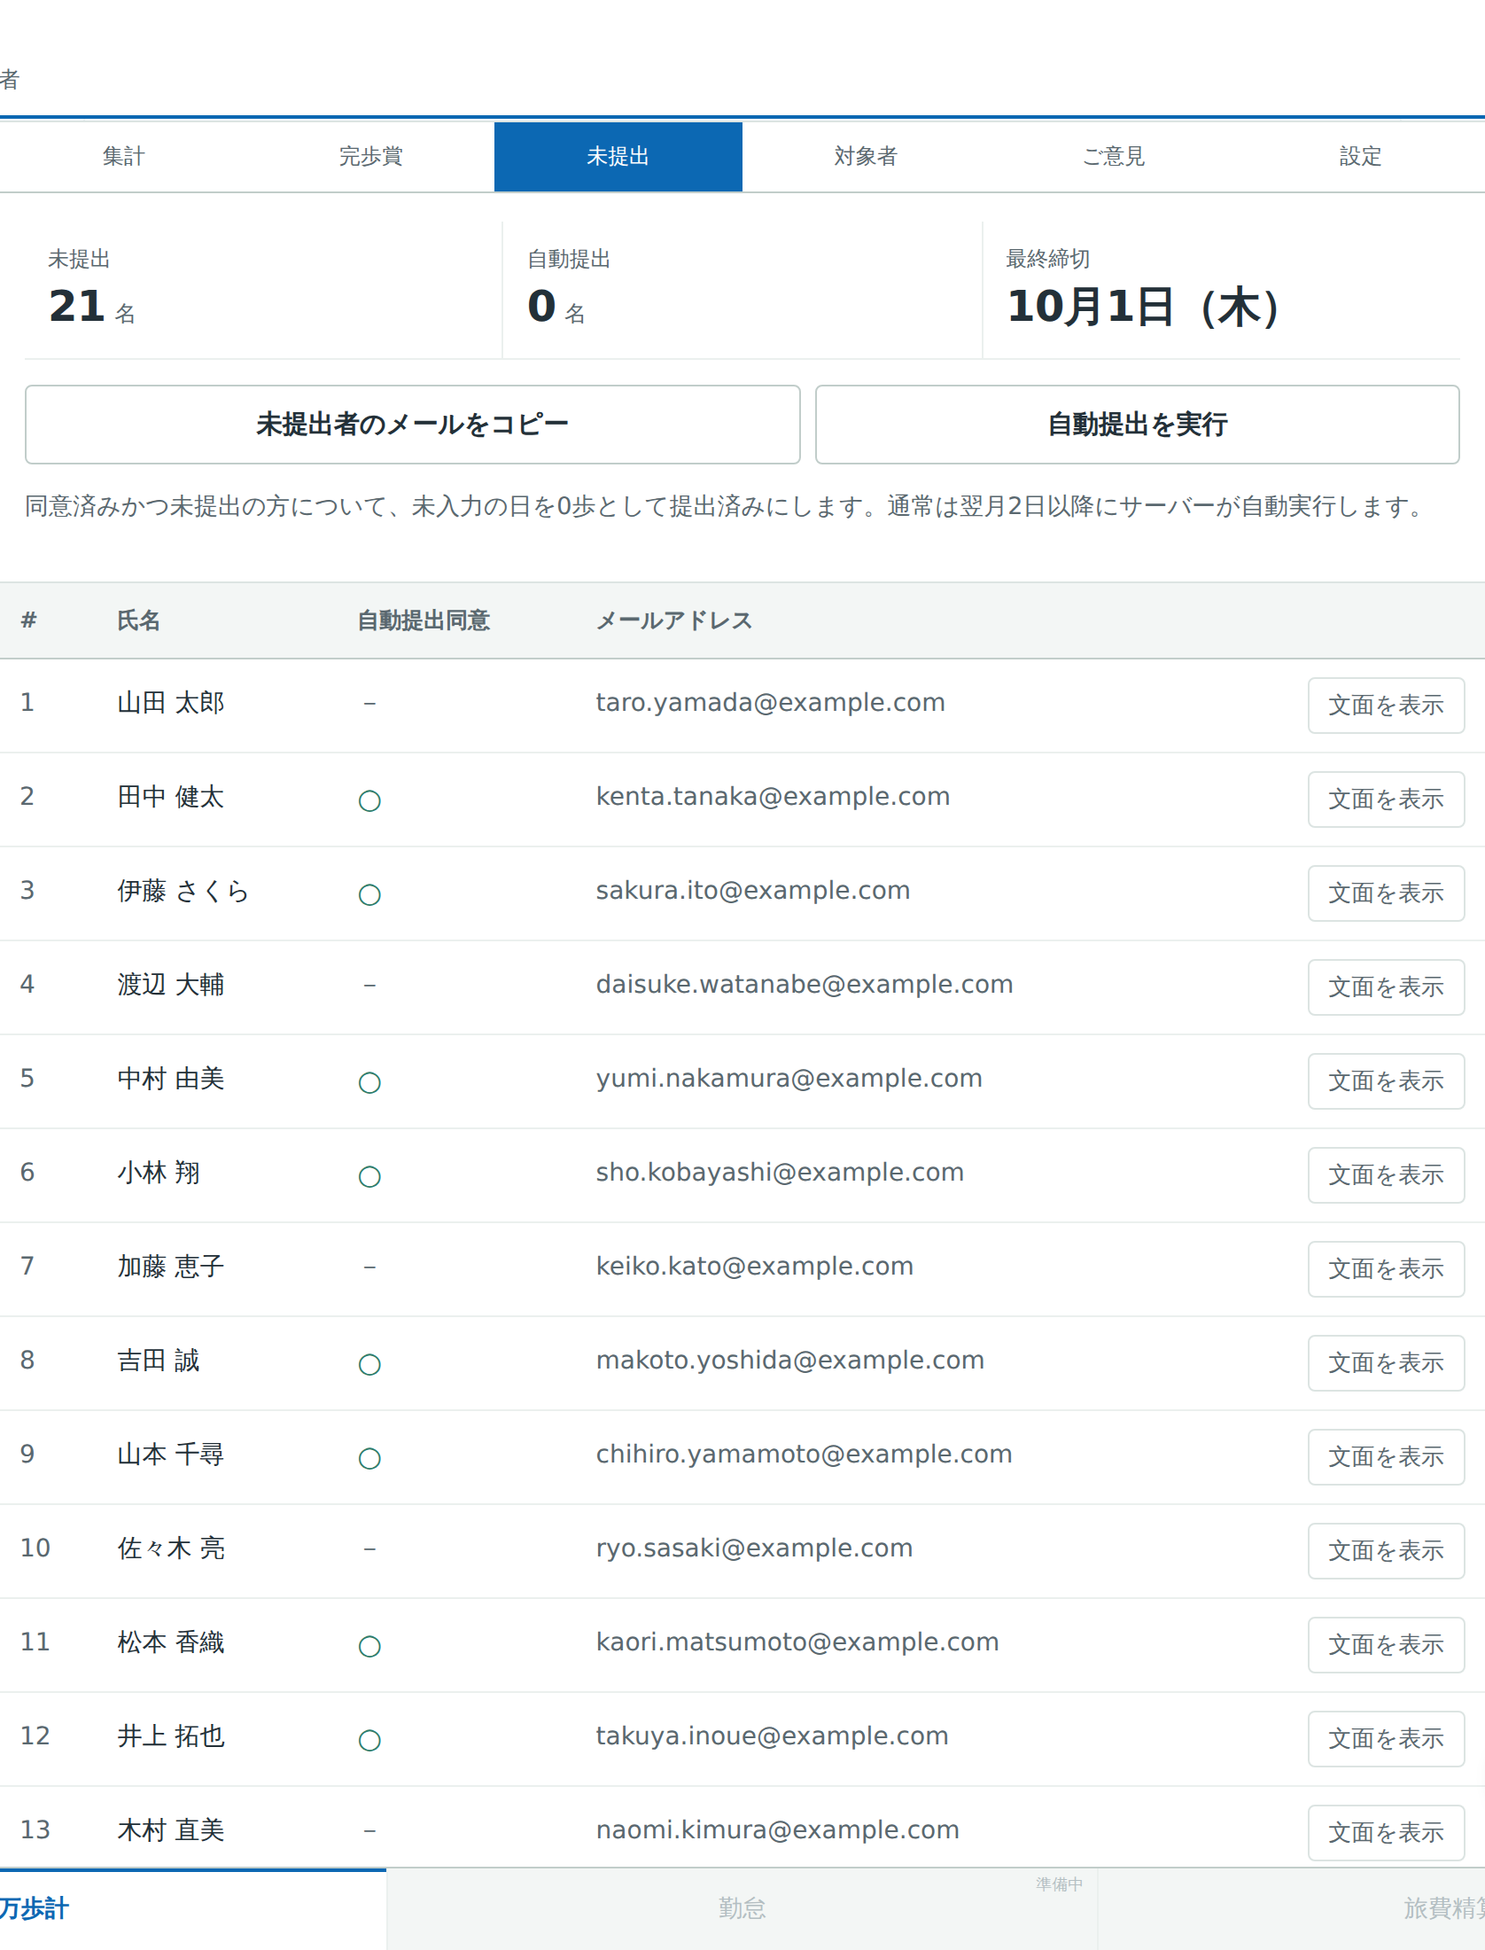
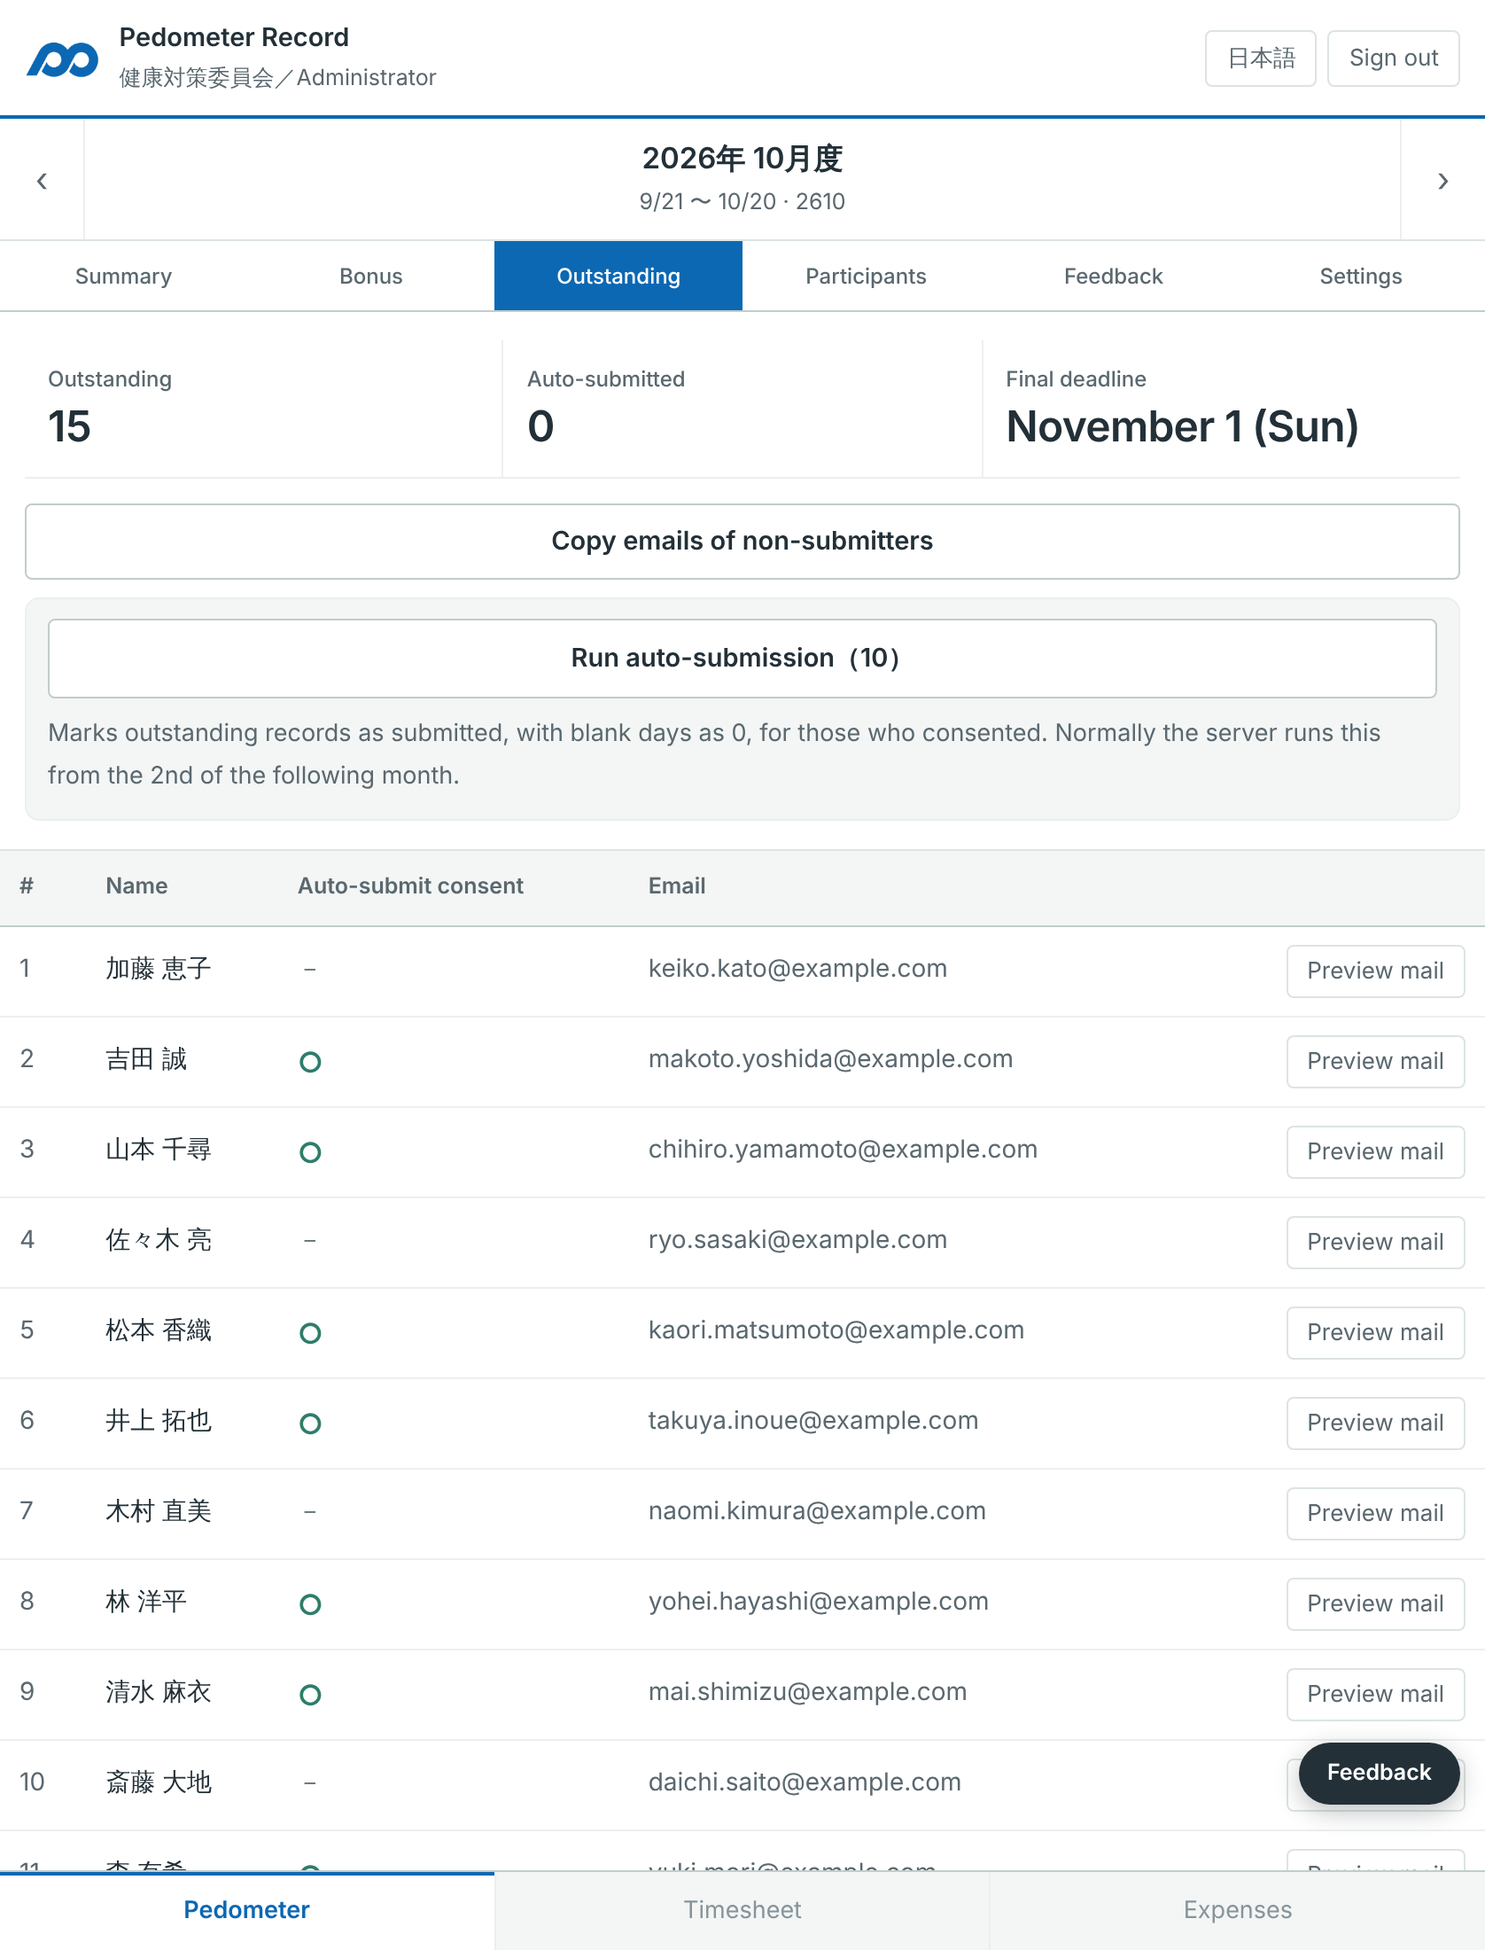
管理者用マニュアル: 佐野's remaining marks, and a bug one of them found
- p9「ここから下を次のページへ記載できないでしょうか。」 the リマインドメール
    heading was stranded under the figure at the foot of the page. A .pb class
    now starts it on a fresh page; the edition is still 19 pages.

  - p9「ここに記載があっても、どのボタンの内容かわかりません。」 — chasing this
    one turned up a real fault. The count beside 自動提出を実行, and whether the
    button is live at all, were both read off the people already auto-submitted
    rather than the people the press would affect. Those are opposite sets: once
    the job has run the first is full and the second empty, so the button was
    dead exactly when there was work and live when there was none. It now uses
    the same filter runAutoSubmit does, and the 自動提出 tile is relabelled
    自動提出済 so the two numbers cannot be read as the same thing.

    This also answers her 「おすと全員が自動提出になるのでしょうか？」 — no. With
    15 outstanding the button reads （10名）, because five never consented.

  - admin_summary.png and admin_outstanding.png retaken against demo-roster.json.
    The first still showed 万歩計集計表をダウンロード, renamed some time ago, and
    carried a 完歩賞 count larger than 提出済.

  - README page counts were three editions out of date.

Full suite green: template, kintai-september, kintai, todoke, koutsuuhi, fare,
fare-table.

Claude-Session: https://claude.ai/code/session_01XMP6QTktT2ZH2brYbujzUP

diff --git a/src/App.jsx b/src/App.jsx
@@ -124,12 +124,15 @@ const STR = {
   reminders: ['未提出・リマインド', 'Reminders'],
   finalDeadline: ['最終締切', 'Final deadline'],
   consent: ['自動提出同意', 'Auto-submit consent'],
-  autoTag: ['自動提出', 'Auto'],
+  autoTag: ['自動提出済', 'Auto-submitted'],   // the count already submitted by the job, not the count pending
   showMail: ['文面を表示', 'Preview mail'],
   copyBody: ['本文をコピー', 'Copy body'],
   openMail: ['メールを開く', 'Open in mail'],
   runAuto: ['自動提出を実行', 'Run auto-submission'],
-  runAutoNote: ['同意済みかつ未提出の方について、未入力の日を0歩として提出済みにします。通常は翌月2日以降にサーバーが自動実行します。', 'Marks consented, unsubmitted records as submitted with blank days as 0. Normally the server runs this from the 2nd of the following month.'],
+  /* 佐野:「未提出 かつ 同意済みの方」の順に。未提出が主で、同意は条件。 */
+  runAutoNote: ['未提出かつ同意済みの方について、未入力の日を0歩として提出済みにします。通常は翌月2日以降にサーバーが自動実行します。', 'Marks outstanding records as submitted, with blank days as 0, for those who consented. Normally the server runs this from the 2nd of the following month.'],
+  runAutoNone: ['自動提出の対象者はいません。未提出で、かつ自動提出に同意している方が対象です。',
+    'Nobody to auto-submit. It applies to people who are outstanding and have consented.'],
   autoDone: ['{n}名を自動提出しました', 'Auto-submitted {n}'],
   notDueYet: ['まだ自動提出の期日（翌月2日）ではありません。実行しますか？', 'The auto-submission date (the 2nd) has not arrived. Run anyway?'],
   noneOutstanding: ['未提出者はいません', 'Nobody outstanding'],
@@ -438,12 +441,21 @@ function buildWorkbook({ y, m, roster, entries, cfg, layout, lang }) {
 
   /* header block (rows 1-2) */
   put(0, 1, n(y)); put(0, 2, s('年')); put(0, 4, n(m)); put(0, 5, s('月分'));
+  /* 佐野: 「日付のでかたがおかしいです。二重に日にちがあります。」
+
+     The header reads （月 ／ 日 ～ 月 ／ 日）, and the two 日 are the
+     fixed 21 and 20 of the period. This used to put a whole date where
+     the month belongs, so the sheet came out
+       （2026/8/21 ／ 21 ～ 2026/9/20 ／ 20）
+     with the day printed twice. Their own 集計表 has （9 ／ 21 ～ 10 ／ 20）,
+     so the month alone is what goes there. */
   put(0, 6, s('（'));
-  put(0, 7, { t: 'd', v: periodStart(y, m), z: 'yyyy/m/d' });
+  put(0, 7, n(periodStart(y, m).getMonth() + 1));
   put(0, 8, s('／')); put(0, 9, n(21)); put(0, 10, s('～'));
-  put(0, 11, { t: 'd', v: periodEnd(y, m), z: 'yyyy/m/d' });
+  put(0, 11, n(periodEnd(y, m).getMonth() + 1));
   put(0, 12, s('／')); put(0, 13, n(20)); put(0, 14, s('）'));
-  put(1, 2, s('健康対策委員会'));
+  /* 佐野 asked for this in column A rather than C. */
+  put(1, 0, s('健康対策委員会'));
 
   /* column headers (row 4) + weekday row (row 5) */
   const regionHdr = '地区別';
@@ -514,7 +526,7 @@ function buildWorkbook({ y, m, roster, entries, cfg, layout, lang }) {
   const ws2 = {};
   const put2 = (r, col, cell) => { ws2[XLSX.utils.encode_cell({ r, c: col })] = cell; };
   put2(0, 0, s('万歩計実績表（開発部用）'));
-  put2(1, 1, s('健康対策委員会'));
+  put2(1, 0, s('健康対策委員会'));   // 佐野: B → A
   put2(2, 0, s('参加人数')); put2(2, 1, s('社員番号')); put2(2, 2, s('名前'));
   put2(2, 3, s(`${nf(cfg.threshold)}歩以上\n（月間連続）`));
   people.forEach((p, i) => {
@@ -1683,7 +1695,16 @@ function RemindersAdmin({ cfg, roster, entries, y, m, onReload, toast, setBusy }
   const [preview, setPreview] = useState(null);
 
   const out = (entries == null) ? [] : roster.filter((p) => !entries[p.id]?.submitted);
+  /* 自動提出 the statistic — how many of this month's records were submitted
+     by the job rather than by hand. */
   const auto = (entries == null) ? [] : roster.filter((p) => entries[p.id]?.auto);
+  /* 自動提出 the action — who pressing the button would actually affect. The
+     same filter runAutoSubmit applies, so the number on the button is the
+     number that will move. The two are easy to confuse and are not the same
+     set: once the job has run, `auto` is full and `eligible` is empty. */
+  const eligible = (entries == null)
+    ? []
+    : roster.filter((p) => p.active !== false && p.consent && !entries[p.id]?.submitted);
   const url = typeof window !== 'undefined'
     ? window.location.origin + import.meta.env.BASE_URL.replace(/\/$/, '')
     : '';
@@ -1711,13 +1732,26 @@ function RemindersAdmin({ cfg, roster, entries, y, m, onReload, toast, setBusy }
           <Stat label={t('autoTag')} value={auto.length} sub={lang === 'ja' ? '名' : ''} />
           <Stat label={t('finalDeadline')} value={lang === 'ja' ? deadlineTextJa(y, m) : deadlineTextEn(y, m)} />
         </div>
+        {/* 佐野:「ここに記載があっても、どのボタンの内容かわかりません。」
+            The note described 自動提出を実行 but sat under both buttons, so
+            it read as describing neither. It now belongs to its button, and
+            says how many people pressing it would actually affect — her
+            other question was 「おすと全員が自動提出になるのでしょうか？」,
+            and the answer is no: only those who consented and have not
+            submitted. Better shown than explained. */}
         <div className="navrow wrap">
           <button className="btn" onClick={() => copy(out.map((p) => companyEmail(p.email)).filter(Boolean).join('; '))}>
             {t('copyEmails')}
           </button>
-          <button className="btn" onClick={runAuto}>{t('runAuto')}</button>
         </div>
-        <p className="muted sm mt">{t('runAutoNote')}</p>
+        <div className="runauto">
+          <button className="btn" onClick={runAuto} disabled={!eligible.length}>
+            {t('runAuto')}{eligible.length ? `（${eligible.length}${lang === 'ja' ? '名' : ''}）` : ''}
+          </button>
+          <p className="muted sm">
+            {eligible.length ? t('runAutoNote') : t('runAutoNone')}
+          </p>
+        </div>
       </div>
 
       <div className="tablewrap">
@@ -2821,6 +2855,13 @@ function Styles() {
 .gate-btns{display:flex;flex-direction:column;gap:10px;margin-top:20px}
 .gate-btns .btn{width:100%}
 .gate-lang{position:absolute;top:14px;right:14px}
+
+/* The 自動提出を実行 button and the line that explains it, kept together
+   so it is never in doubt which button the line is about. */
+.runauto{margin-top:10px;padding:11px 12px;border:1px solid var(--hair);border-radius:8px;
+  background:var(--wash)}
+.runauto .btn{width:100%}
+.runauto p{margin:8px 0 0}
 
 /* an address field with its own tick beside it, not under it */
 .withchk{display:flex;gap:10px;align-items:center}

diff --git a/manual/manual.html b/manual/manual.html
@@ -87,6 +87,7 @@ strong, b { font-weight: 700; }
 
 /* ===================== sections ===================== */
 .sec { break-before: page; }
+.pb  { break-before: page; }     /* force a heading onto a fresh page */
 .sec-h { display: flex; align-items: flex-start; gap: 5mm; margin-bottom: 5mm; }
 .sec-h .num {
   background: var(--brand); color: #fff; font-size: 12pt; font-weight: 700;
@@ -577,7 +578,7 @@ td.k .en { font-weight: 400; }
     <figcaption>▲ 未提出タブ（英語表示）。最終締切が曜日つきで表示されます。<br>The Outstanding tab, shown in English. The final deadline includes the day of the week.</figcaption>
   </figure>
 
-  <h3>リマインドメールの文面を確認する<em>Previewing the reminder</em></h3>
+  <h3 class="pb">リマインドメールの文面を確認する<em>Previewing the reminder</em></h3>
   <p class="ja">各行の <b>文面を表示</b> を押すと、その方に送られるメールの宛先・件名・本文が確認できます。日本語と英語が 1 通にまとめられ、お名前と最終締切が自動で差し込まれます。</p>
   <p class="en">Press 文面を表示 on any row to see the exact address, subject and body. Japanese and English are combined into one message, with the person's name and the deadline inserted automatically.</p>
 
@@ -591,15 +592,15 @@ td.k .en { font-weight: 400; }
     <tr><td class="k">未提出者のメールをコピー<p class="en">Copy emails</p></td><td>未提出者全員の会社アドレスをまとめてコピーします。<p class="en">Copies the company addresses of everyone outstanding.</p></td></tr>
     <tr><td class="k">本文をコピー<p class="en">Copy body</p></td><td>メール本文をコピーします。<p class="en">Copies the message body.</p></td></tr>
     <tr><td class="k">メールを開く<p class="en">Open in mail</p></td><td>宛先・件名・本文を入れた状態でメールソフトが開きます。<p class="en">Opens your mail client with everything filled in.</p></td></tr>
-    <tr><td class="k">自動提出を実行<p class="en">Run auto-submission</p></td><td>同意済みかつ未提出の方を、未入力の日を 0 歩として提出済みにします。<p class="en">Submits consented, outstanding records with blanks as 0.</p></td></tr>
+    <tr><td class="k">自動提出を実行<p class="en">Run auto-submission</p></td><td>未提出かつ同意済みの方を、未入力の日を 0 歩として提出済みにします。<b>対象者が全員になるわけではありません</b>— 同意していない方は対象外です。ボタンには対象となる人数が表示され、対象者がいないときは押せません。<p class="en">Submits consented, outstanding records with blanks as 0. <b>Not everyone outstanding</b> — those who have not consented are left alone. The button shows how many people it would affect, and is disabled when there are none.</p></td></tr>
   </table>
 
   <div class="note ok">
     <b>ポイント / Tip</b>
     <p>通常、26 日のリマインド送信と翌月 2 日の自動提出は<b>サーバーが自動で実行</b>します。上のボタンは、確認したいときや手動で行いたいときのためのものです。</p>
-    <p>Normally the server sends the reminders on the 26th and runs the auto-submission on the 2nd. These buttons are for checking, or for running it by hand.</p>
-    <p>翌月 2 日に自動提出が実行されると、「同意済みかつ未提出の方の実績を自動提出しました。」というメールが管理者アドレスに届きます。</p>
-    <p>When auto-submission runs on the 2nd of next month, an email saying 「同意済みかつ未提出の方の実績を自動提出しました。」 is sent to the admin address.</p>
+    <p>翌月 2 日に自動提出が実行されると、「未提出かつ同意済みの方の実績を自動提出しました。」というメールが管理者アドレスに届きます。</p>
+    <p class="sep">Normally the server sends the reminders on the 26th and runs the auto-submission on the 2nd. These buttons are for checking, or for running it by hand.</p>
+    <p>When auto-submission runs on the 2nd of next month, an email saying 「未提出かつ同意済みの方の実績を自動提出しました。」 is sent to the admin address.</p>
   </div>
 
   <div class="note warn">
@@ -679,8 +680,8 @@ td.k .en { font-weight: 400; }
   <div class="note warn">
     <b>注意 / Important</b>
     <p><b>管理者のログインID</b>を変更すると、それまでの ID ではログインできなくなります。保存する前に綴りをご確認ください。誤って保存すると、どなたも管理画面に入れなくなります。</p>
-    <p>Changing the <b>administrator ID</b> stops the previous one working. Check the spelling before saving — a typo locks everyone out of the administrator screens.</p>
     <p>設定画面の下部にある <b>デモデータを生成</b> と <b>この月度のデータを削除</b> は、動作確認用の機能です。運用開始後は使用しないでください。実際の入力データが失われます。</p>
+    <p class="sep">Changing the <b>administrator ID</b> stops the previous one working. Check the spelling before saving — a typo locks everyone out of the administrator screens.</p>
     <p>The <b>デモデータを生成</b> and <b>この月度のデータを削除</b> buttons at the bottom are for testing only. Do not use them once the system is live — real entries will be lost.</p>
   </div>
 </section>

diff --git a/src/mail.js b/src/mail.js
@@ -122,6 +122,6 @@ export function summaryMail(o) {
   }
   return {
     subject: `【自動送信】${y}年${m}月度 自動提出結果（${autoSubmitted.length}名）`,
-    body: `${y}年${m}月度について、同意済みかつ未提出の方の実績を自動提出しました。\nAuto-submitted ${autoSubmitted.length} record(s). Blank days were recorded as 0.\n\n対象者 / Records:\n${list(autoSubmitted)}\n`,
+    body: `${y}年${m}月度について、未提出かつ同意済みの方の実績を自動提出しました。\nAuto-submitted ${autoSubmitted.length} record(s). Blank days were recorded as 0.\n\n対象者 / Records:\n${list(autoSubmitted)}\n`,
   };
 }

diff --git a/manual/README.md b/manual/README.md
@@ -18,9 +18,9 @@ python3 build.py
 
 | File | Chapters | Pages |
 |---|---|---|
-| `…_参加者用.pdf` | 01 はじめに, ログイン方法 … リマインドメール, 巻末 | 17 |
-| `…_管理者用.pdf` | 01 はじめに, 集計 … 設定, 巻末 | 16 |
-| `…_全体.pdf` | everything, original numbering | 28 |
+| `…_参加者用.pdf` | 01 はじめに, ログイン方法 … リマインドメール, 巻末 | 22 |
+| `…_管理者用.pdf` | 01 はじめに, 集計 … 設定, 巻末 | 19 |
+| `…_全体.pdf` | everything, original numbering | 35 |
 
 Participants are given the first; the committee keeps the other two.
 Participants must not be handed the administrator edition — that is the
@@ -80,6 +80,7 @@ themselves.
 | Class | What it does |
 |---|---|
 | `.sec` | a chapter — forces a page break before |
+| `.pb` | forces a page break before any element — used on an `h3` that would otherwise be stranded at the foot of a page |
 | `.en` | the English translation line, grey and slightly smaller |
 | `.blue` | inline highlight in the brand blue |
 | `.chip` | a small outlined box for UI labels, e.g. `<span class="chip">リスト</span>` |
